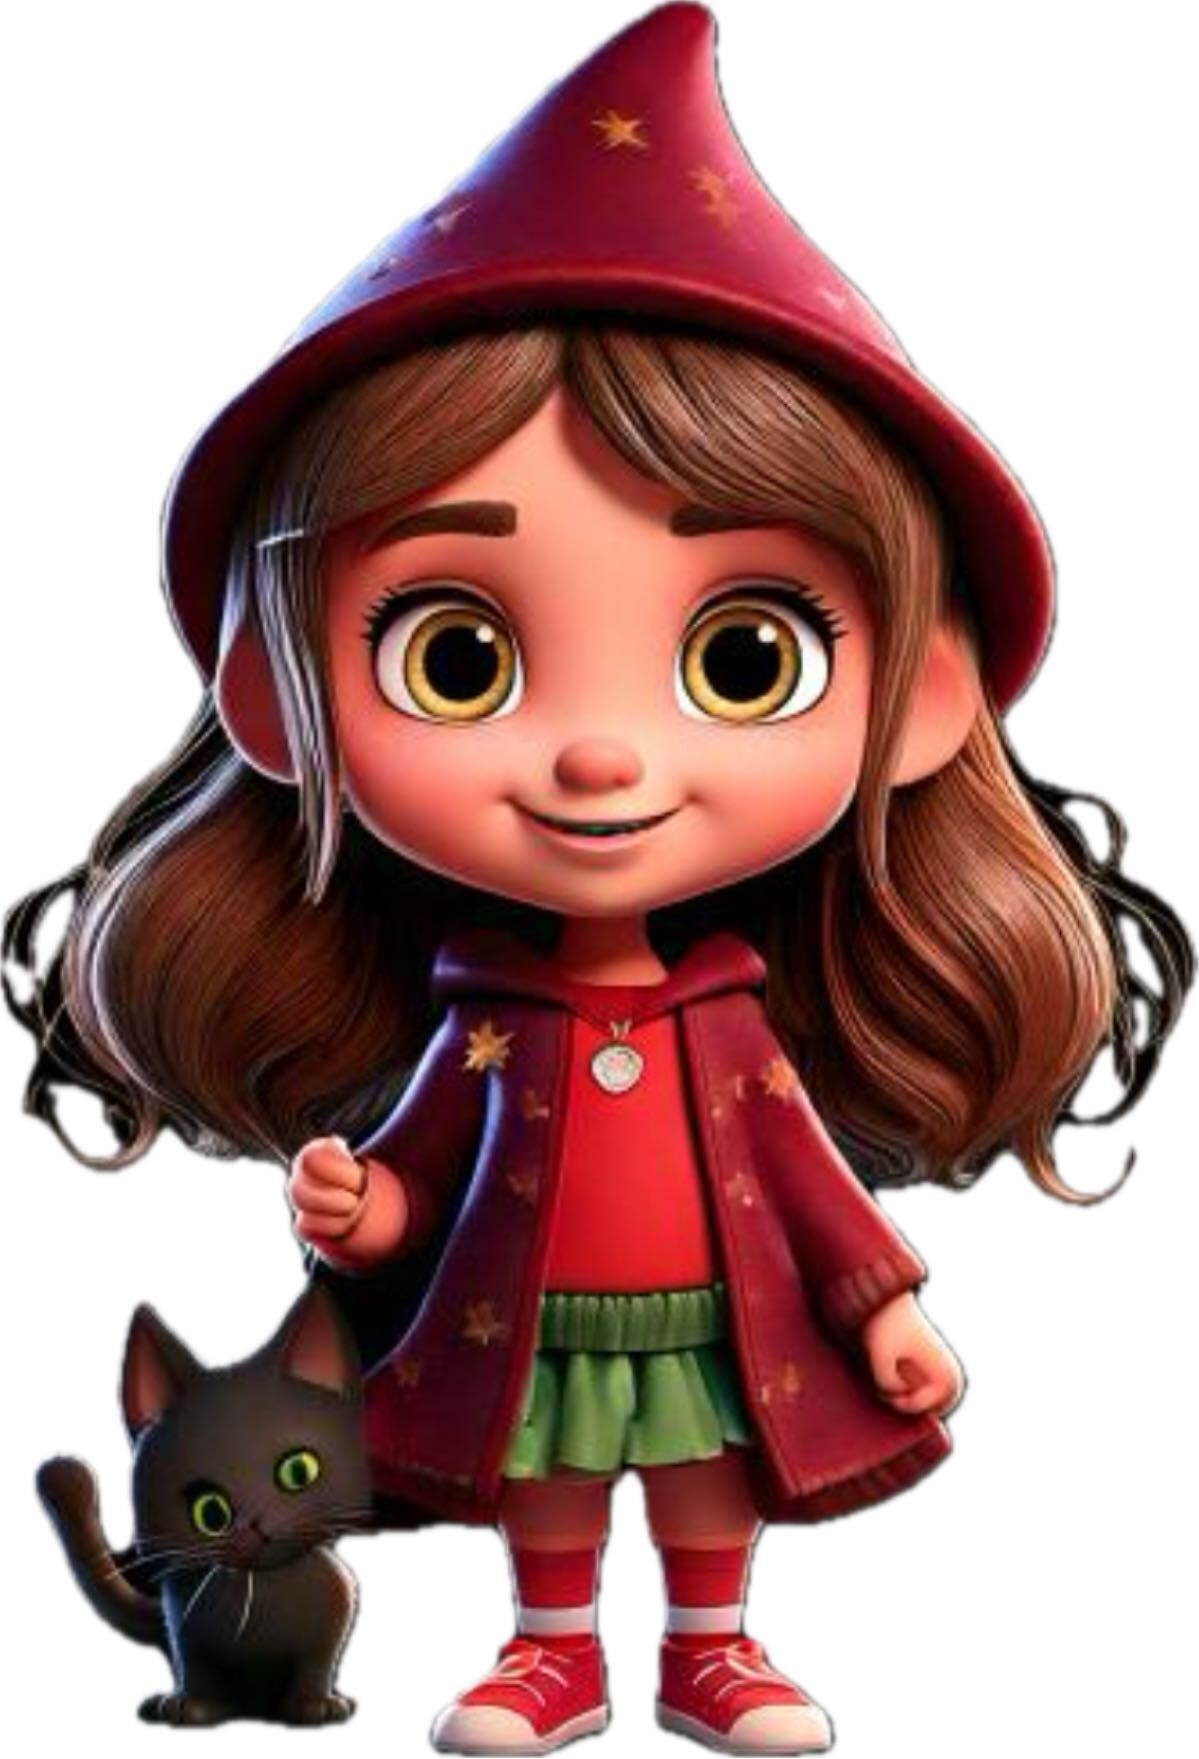
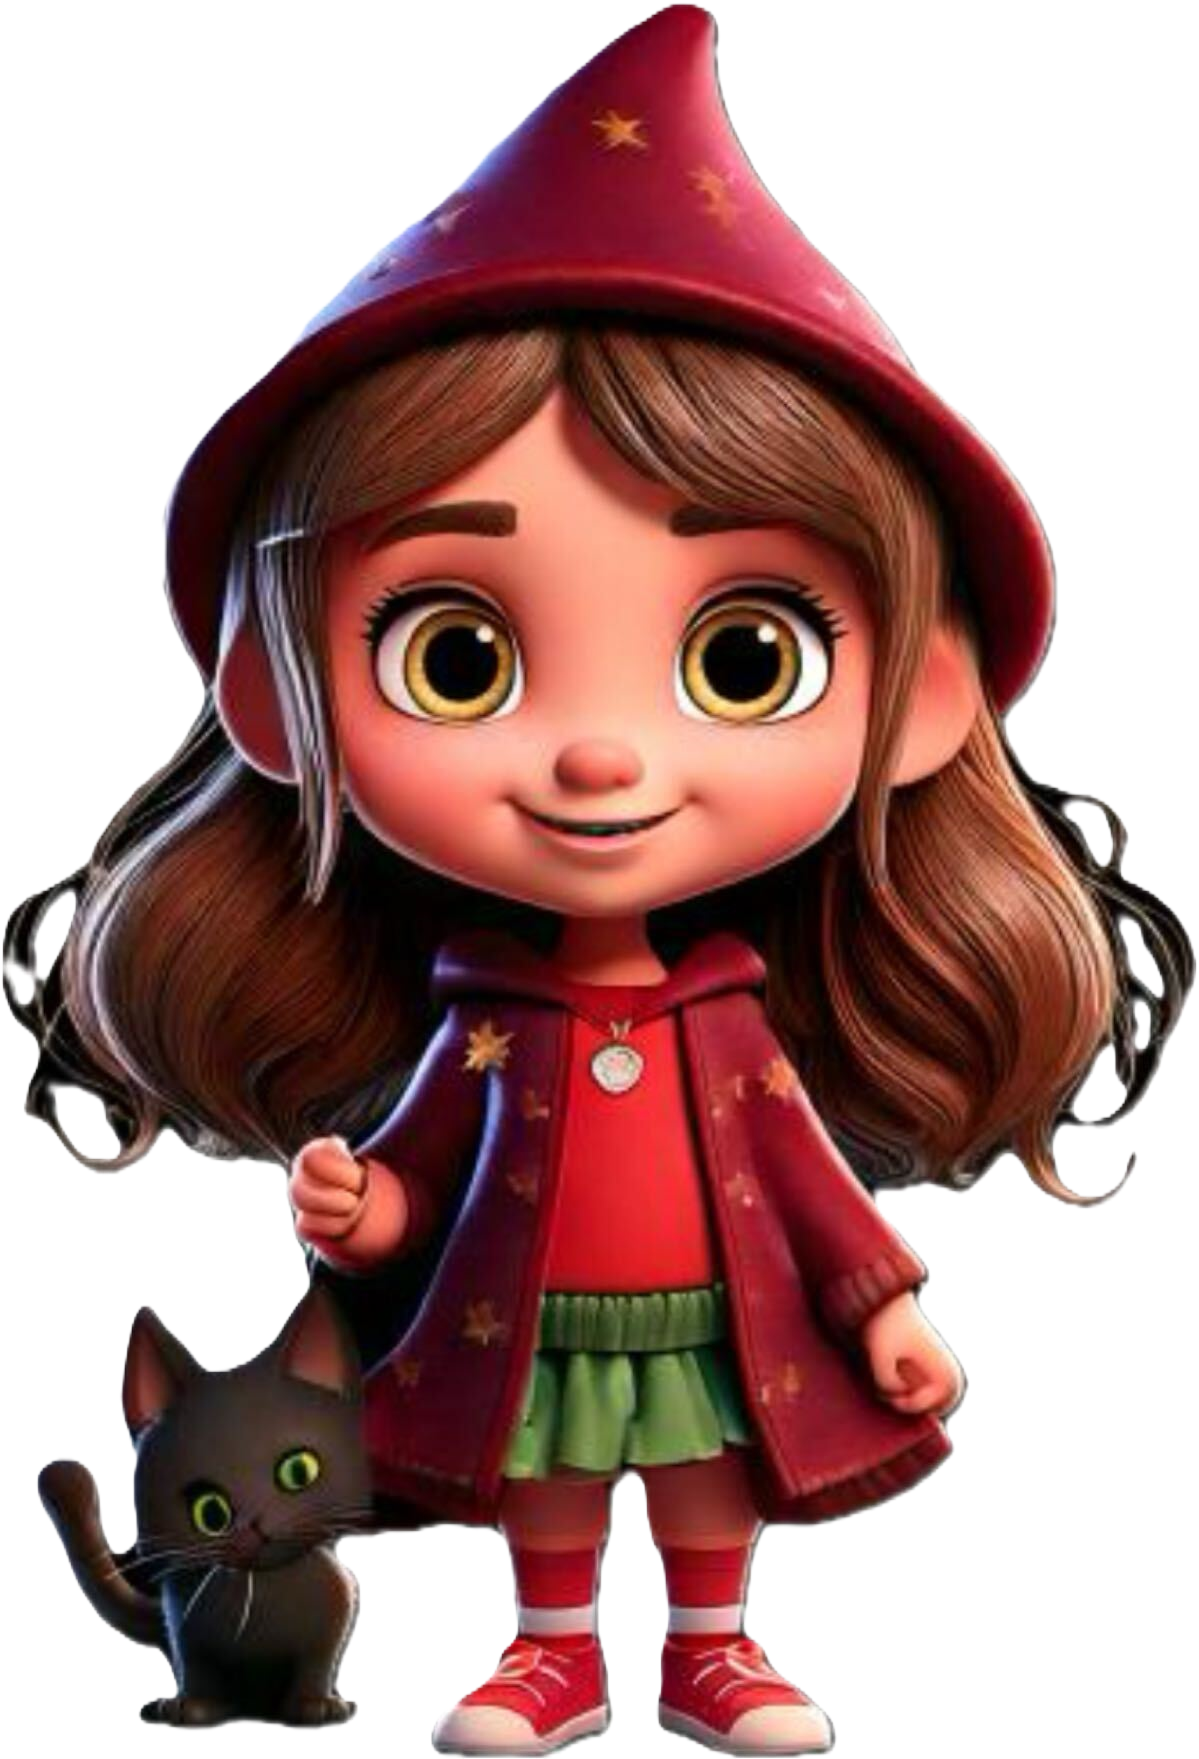
finishing

diff --git a/Frontend/app/dashboard/page.js b/Frontend/app/dashboard/page.js
@@ -97,6 +97,15 @@ export default function Dashboard() {
           className="md:w-[220px] xl:w-[240px]"
         />
       </div>
+      <div className="fixed left-0 top-1/5 md:bottom-1/3 block slide-in-lr">
+        <Image
+          src="/misc/girl-mag.png"
+          alt="Boy with magnifying glass"
+          width={120}
+          height={400}
+          className="md:w-[220px] xl:w-[240px]"
+        />
+      </div>
     </div>
   );
 }
